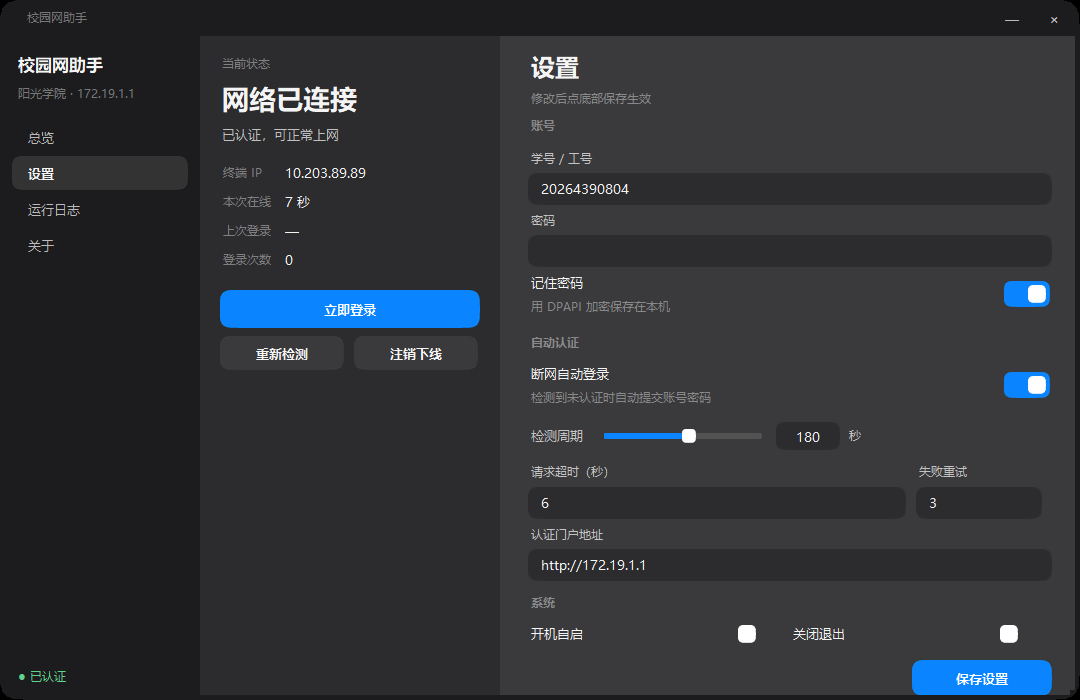
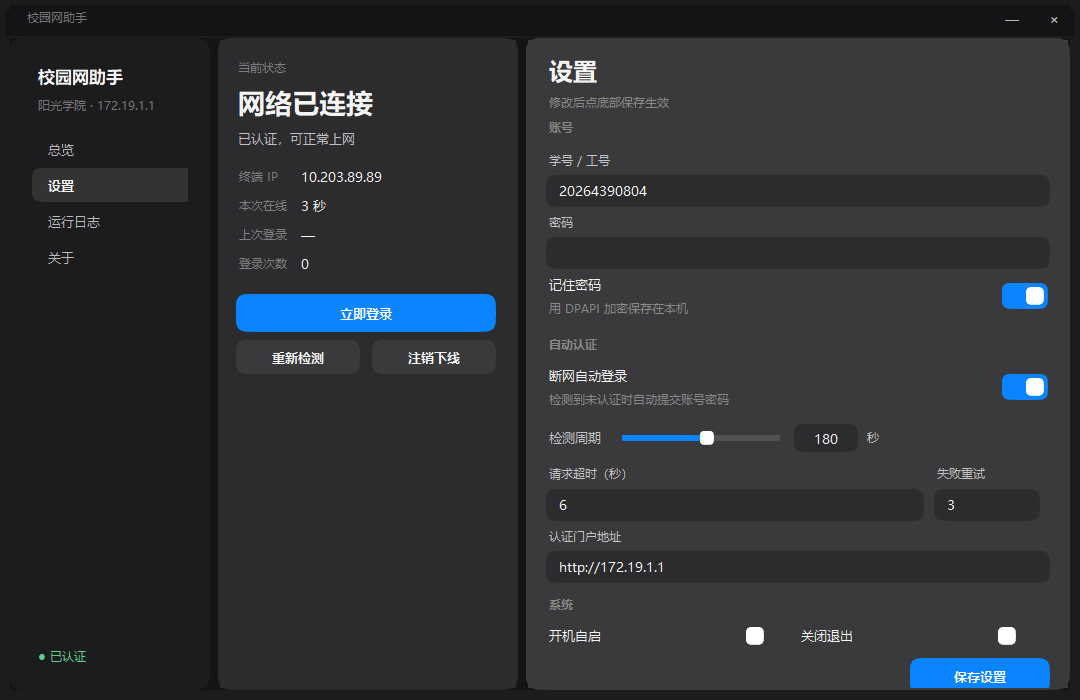
style: 窗口改用 DWM 抗锯齿圆角；三栏改为圆角卡片
- 窗口轮廓交给 DWM（DWMWCP_ROUND），由合成器绘制，边缘平滑无锯齿
- 侧栏/中栏/内容区改成各自的圆角卡片，浮在 #141416 底板上，层级更清晰
- 内容区/中栏内边距跟随卡片收窄，设置页仍在一屏内

diff --git a/tk_app.py b/tk_app.py
@@ -24,6 +24,7 @@ import tray as tray_mod
 from engine import Engine
 
 # ---------------------------------------------------------------- 调色板
+BASE = "#141416"       # 窗口底板（衬托圆角卡片）
 DEEP = "#1c1c1e"
 MID = "#2c2c2e"
 SURFACE = "#3a3a3c"
@@ -531,12 +532,21 @@ class App(tk.Tk):
         return max(0, (self.winfo_screenwidth() - w) // 2), max(0, (self.winfo_screenheight() - h) // 2 - 20)
 
     def _apply_rounding(self):
-        """窗口外轮廓也用超椭圆（和内部圆角同一形状）。"""
+        """窗口外轮廓：优先用 DWM 圆角（合成器抗锯齿），失败再退回区域裁剪。"""
         try:
             self.update_idletasks()
             hwnd = ctypes.windll.user32.GetParent(self.winfo_id())
+            pref = ctypes.c_int(2)                      # DWMWCP_ROUND
+            hr = ctypes.windll.dwmapi.DwmSetWindowAttribute(
+                hwnd, 33, ctypes.byref(pref), ctypes.sizeof(pref))   # 半径交给系统
+            if hr == 0:
+                return
+        except Exception:                               # noqa: BLE001
+            pass
+        try:
+            hwnd = ctypes.windll.user32.GetParent(self.winfo_id())
             w, h = max(200, self.winfo_width()), max(200, self.winfo_height())
-            pts = squircle_points(0, 0, w, h, RADIUS_WIN, steps=16)
+            pts = squircle_points(0, 0, w, h, 20, steps=16)
             flat = [int(v) for pt in pts for v in pt]
             arr = (ctypes.c_long * len(flat))(*flat)
             rgn = ctypes.windll.gdi32.CreatePolygonRgn(arr, len(pts), 2)
@@ -691,12 +701,15 @@ class App(tk.Tk):
     # ------------------------------------------------------------ 布局
     def _build(self):
         self._build_titlebar()
-        body = tk.Frame(self, bg=DEEP)
-        body.pack(fill="both", expand=True)
+        body = tk.Frame(self, bg=BASE)
+        body.pack(fill="both", expand=True, padx=10, pady=(2, 10))
 
-        side = tk.Frame(body, bg=DEEP, width=200)
-        side.pack(side="left", fill="y")
-        side.pack_propagate(False)
+        side_card = Card(body, bg=BASE, fill=DEEP, radius=RADIUS_CARD, padding=10)
+        side_card.pack(side="left", fill="y", padx=(0, 8))
+        side_card.configure(width=200)
+        side_card.pack_propagate(False)
+        side = side_card.body
+        side.configure(width=180)
         tk.Label(side, text="校园网助手", bg=DEEP, fg=T1_D, font=F_HEAD,
                  anchor="w", padx=16).pack(fill="x", pady=(14, 0))
         tk.Label(side, text="阳光学院 · 172.19.1.1", bg=DEEP, fg=T3_D, font=F_SMALL,
@@ -712,26 +725,29 @@ class App(tk.Tk):
                                     font=F_SMALL, anchor="w", padx=16)
         self.side_status.pack(side="bottom", fill="x", pady=(0, 12))
 
-        mid = tk.Frame(body, bg=MID, width=300)
-        mid.pack(side="left", fill="y")
-        mid.pack_propagate(False)
+        mid_card = Card(body, bg=BASE, fill=MID, radius=RADIUS_CARD, padding=2)
+        mid_card.pack(side="left", fill="y", padx=(0, 8))
+        mid_card.configure(width=300)
+        mid_card.pack_propagate(False)
+        mid = mid_card.body
         self._build_status(mid)
 
-        content = tk.Frame(body, bg=SURFACE)
-        content.pack(side="left", fill="both", expand=True)
+        content_card = Card(body, bg=BASE, fill=SURFACE, radius=RADIUS_CARD, padding=2)
+        content_card.pack(side="left", fill="both", expand=True)
+        content = content_card.body
         self._content = content
         self._build_views(content)
         self._switch_manual(self._current)
 
     def _build_titlebar(self):
-        bar = tk.Frame(self, bg=DEEP, height=36)
+        bar = tk.Frame(self, bg=BASE, height=36)
         bar.pack(fill="x")
         bar.pack_propagate(False)
-        title = tk.Label(bar, text="校园网助手", bg=DEEP, fg=T3_D, font=F_SMALL)
+        title = tk.Label(bar, text="校园网助手", bg=BASE, fg=T3_D, font=F_SMALL)
         title.pack(side="left", padx=(24, 0))
 
         for text, cmd, danger in (("×", self.hide_to_tray, True), ("—", self._minimize, False)):
-            IconButton(bar, text, cmd, bg=DEEP, danger=danger).pack(
+            IconButton(bar, text, cmd, bg=BASE, danger=danger).pack(
                 side="right", padx=(0, 10), pady=6)
 
         for w in (bar, title):
@@ -755,23 +771,23 @@ class App(tk.Tk):
     # ------------------------------------------------------------ 中栏
     def _build_status(self, mid):
         tk.Label(mid, text="当前状态", bg=MID, fg=T3, font=F_SMALL,
-                 anchor="w", padx=20).pack(fill="x", pady=(16, 2))
+                 anchor="w", padx=16).pack(fill="x", pady=(16, 2))
         self.st_title = tk.Label(mid, text="检测中", bg=MID, fg=T1, font=F_TITLE,
-                                 anchor="w", padx=20)
+                                 anchor="w", padx=16)
         self.st_title.pack(fill="x")
         self.st_msg = tk.Label(mid, text="正在读取认证门户", bg=MID, fg=T2, font=F_BODY,
-                               anchor="w", justify="left", wraplength=252, padx=20, pady=4)
+                               anchor="w", justify="left", wraplength=252, padx=16, pady=4)
         self.st_msg.pack(fill="x")
 
         meta = tk.Frame(mid, bg=MID)
-        meta.pack(fill="x", padx=20, pady=(8, 0))
+        meta.pack(fill="x", padx=16, pady=(8, 0))
         self.st_ip = self._meta_row(meta, "终端 IP")
         self.st_up = self._meta_row(meta, "本次在线")
         self.st_last = self._meta_row(meta, "上次登录")
         self.st_count = self._meta_row(meta, "登录次数")
 
         btns = tk.Frame(mid, bg=MID)
-        btns.pack(fill="x", padx=20, pady=(16, 0))
+        btns.pack(fill="x", padx=16, pady=(16, 0))
         self.btn_login = Button(btns, "立即登录", self._do_login, bg=MID,
                                 fill=ACCENT, width=260, height=38, accent=True)
         self.btn_login.pack(fill="x")
@@ -803,10 +819,10 @@ class App(tk.Tk):
 
     def _page_head(self, parent, title, sub=""):
         tk.Label(parent, text=title, bg=SURFACE, fg=T1_S, font=(FONT, 18, "bold"),
-                 anchor="w").pack(fill="x", padx=28, pady=(18, 2))
+                 anchor="w").pack(fill="x", padx=18, pady=(14, 2))
         if sub:
             tk.Label(parent, text=sub, bg=SURFACE, fg=T3_S, font=F_SMALL,
-                     anchor="w").pack(fill="x", padx=28)
+                     anchor="w").pack(fill="x", padx=18)
 
     # 首次使用引导
     def _view_welcome(self, parent):
@@ -861,17 +877,17 @@ class App(tk.Tk):
         self._page_head(frame, "概览", "认证状态、连接详情与最近活动")
 
         row = tk.Frame(frame, bg=SURFACE)
-        row.pack(fill="x", padx=28, pady=(16, 0))
+        row.pack(fill="x", padx=18, pady=(16, 0))
         self._ov_auth = self._stat_card(row, "认证状态")
         self._ov_uptime = self._stat_card(row, "本次在线")
         self._ov_conn = self._stat_card(row, "外网连通")
 
         head = tk.Frame(frame, bg=SURFACE)
-        head.pack(fill="x", padx=28, pady=(20, 8))
+        head.pack(fill="x", padx=18, pady=(20, 8))
         tk.Label(head, text="最近活动", bg=SURFACE, fg=T2_S, font=F_HEAD).pack(side="left")
 
         holder = tk.Frame(frame, bg=SURFACE)
-        holder.pack(fill="both", expand=True, padx=28, pady=(0, 22))
+        holder.pack(fill="both", expand=True, padx=18, pady=(0, 22))
         self._ov_log = RoundedText(holder, bg=SURFACE, fill=MID, height=180)
         self._ov_log.pack(fill="both", expand=True)
         self._ov_log.text.configure(state="disabled")
@@ -895,13 +911,13 @@ class App(tk.Tk):
     def _view_logs(self, parent):
         frame = tk.Frame(parent, bg=SURFACE)
         head = tk.Frame(frame, bg=SURFACE)
-        head.pack(fill="x", padx=28, pady=(22, 10))
+        head.pack(fill="x", padx=18, pady=(22, 10))
         tk.Label(head, text="运行日志", bg=SURFACE, fg=T1_S, font=F_TITLE).pack(side="left")
         Button(head, "清空", self._clear_logs, bg=SURFACE, fill=MID,
                width=72, height=30, font=F_SMALL).pack(side="right")
 
         holder = tk.Frame(frame, bg=SURFACE)
-        holder.pack(fill="both", expand=True, padx=28, pady=(0, 22))
+        holder.pack(fill="both", expand=True, padx=18, pady=(0, 22))
         self._log_view = RoundedText(holder, bg=SURFACE, fill=MID)
         self._log_view.pack(fill="both", expand=True)
         self._log_view.text.configure(state="disabled")
@@ -922,7 +938,7 @@ class App(tk.Tk):
         outer.winfo_children()[0].pack_configure(pady=(12, 2))
 
         body = tk.Frame(outer, bg=SURFACE)
-        body.pack(fill="both", expand=True, padx=28, pady=(4, 0))
+        body.pack(fill="both", expand=True, padx=18, pady=(2, 0))
 
         tk.Label(body, text="账号", bg=SURFACE, fg=T3_S, font=F_SMALL_B,
                  anchor="w").pack(fill="x", pady=(0, 6))
@@ -965,7 +981,7 @@ class App(tk.Tk):
         self.v_autoclose = self._make_switch(pair, "关闭退出", "", side="left")
 
         bar = tk.Frame(outer, bg=SURFACE)
-        bar.pack(fill="x", padx=28, pady=(10, 12))
+        bar.pack(fill="x", padx=18, pady=(6, 8))
         Button(bar, "保存设置", self._save_settings, bg=SURFACE, fill=ACCENT,
                accent=True, width=140, height=36).pack(side="right")
 
@@ -1018,7 +1034,7 @@ class App(tk.Tk):
         ]
         for key, val in lines:
             row = tk.Frame(frame, bg=SURFACE)
-            row.pack(fill="x", padx=28, pady=6)
+            row.pack(fill="x", padx=18, pady=6)
             tk.Label(row, text=key, bg=SURFACE, fg=T3_S, font=F_SMALL,
                      width=8, anchor="w").pack(side="left")
             tk.Label(row, text=val, bg=SURFACE, fg=T2_S, font=F_BODY,

diff --git a/README.md b/README.md
@@ -40,12 +40,12 @@
 
 | 约束 | 落实方式 |
 | --- | --- |
-| 只用三级灰 | `#1c1c1e` 侧栏 / `#2c2c2e` 中栏与卡片 / `#3a3a3c` 内容区 |
+| 灰阶 | 底板 `#141416`（衬托圆角卡片）+ 三级灰：侧栏 `#1c1c1e` / 中栏 `#2c2c2e` / 内容区 `#3a3a3c` |
 | 无渐变 | 所有元素纯色填充，无 `gradient` |
 | 无发光 / 无大阴影 | 不使用任何 shadow，窗口靠圆角与色差成形 |
 | 无装饰动画 | 只有颜色瞬切（200ms 级观感），无位移/缩放 |
 | 无描边 | **按你的要求去掉了 1px 边框**，按钮、选框全靠底色明暗区分 |
-| 圆角 | **超椭圆（squircle, n≈4）**，不是圆弧：窗口 34px、卡片/日志区 22px、按钮与输入框 18px、导航 16px、标题栏按钮 14px、开关胶囊；全部 4× 超采样抗锯齿 |
+| 圆角 | **超椭圆（squircle, n≈4）**：窗口用 DWM 圆角（系统合成器绘制，**边缘抗锯齿**）；三栏面板作为圆角卡片浮在底板上（22px）；卡片/日志区 22px、按钮与输入框 18px、导航 16px、标题栏按钮 14px；内部元素 4× 超采样抗锯齿 |
 | 字体 | **统一系统黑体（Microsoft YaHei UI）**，只有字重差异（Regular / Bold），不引入任何需授权的第三方字体 |
 | 文本层次 | 白 95% / 70% / 40% 三档（按底色混合计算） |
 | 悬停 | 底色提亮 5%～9%，无位移、无缩放 |
@@ -75,6 +75,7 @@ pip install pillow
 
 窗口行为：
 
+- **三栏是圆角卡片**：侧栏 / 中栏 / 内容区各自圆角、之间留 8px 间隙，浮在深一档的底板上；
 - **可调整大小**：拖动窗口任意边缘/四角即可拉伸（最小 900×560），布局跟随重排；
 - **内容可滚动**：设置页等内容超出时用鼠标滚轮滚动，滚动条隐藏；
 - **点 × 只收进右下角托盘**，程序继续守护，托盘单击可重新打开；
